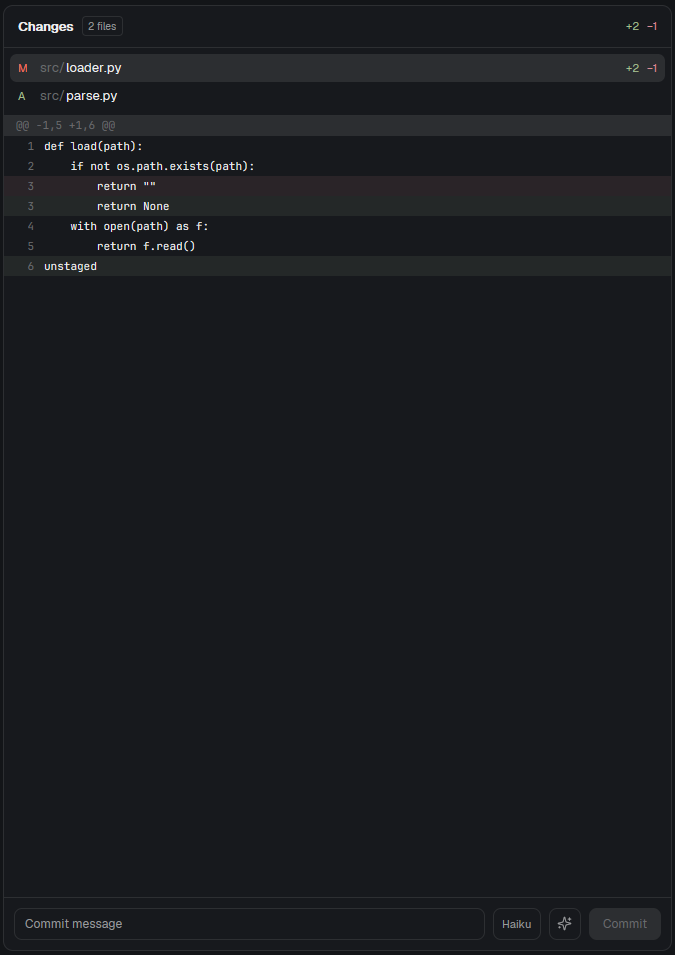
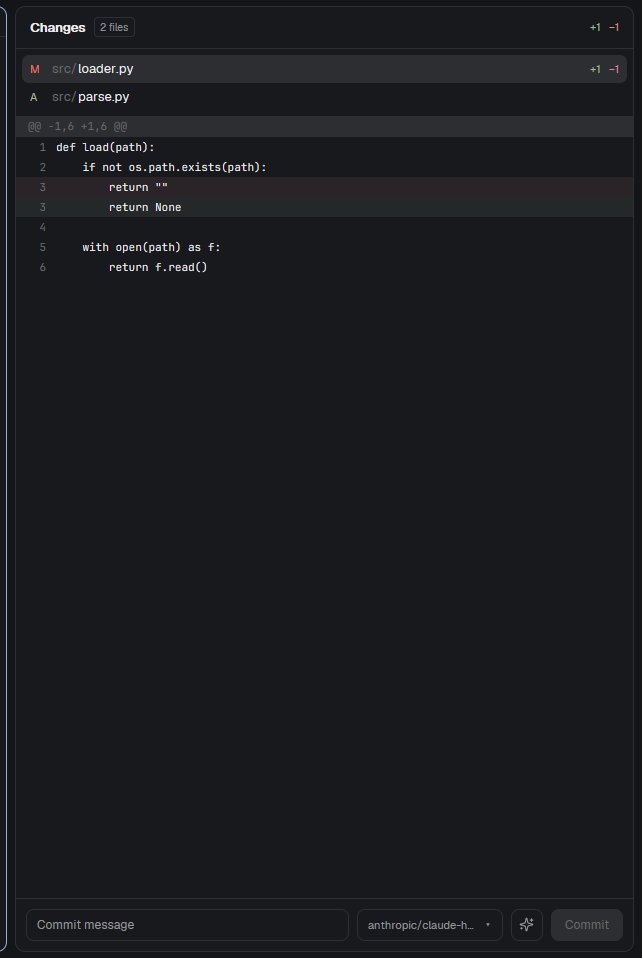
fix: file list clicks, untracked files in the prompt, hung requests
- the model picker had taken over pick(), so clicking a file in the list
  picked a model instead: renamed to pickModel()
- untracked files are in neither git diff, but Commit adds them: they are
  now part of what the model reads
- a request that never answers is given up on after 3 minutes, and a late
  reply is dropped, instead of the button spinning forever
- restored the tab padding and width of the shipped diff viewer
- the model menu is sized to the panel, closes on Escape, loads providers
  in parallel and says when there are none
- notes say whether they are errors (red) or information (grey)
- shared key is ai-commit.selected, not ai.selected
- mod.json carries a title and an overlay so mod.open shows it
- keys.json: the mod:ai-commit section the recipe asks for
- RECIPE.md: document the pi provider, placement, what is written, the
  untracked files and the 3 minute limit
- preview.png: regenerated, the model button no longer says "Haiku"

diff --git a/mods/ai-commit/main.js b/mods/ai-commit/main.js
@@ -1,7 +1,7 @@
 import { View, div, svg } from "gpui-kit";
 import { v_flex, h_flex, InputState, Input, Scrollbar, v_virtual_list } from "gpui-base";
 import * as fs from "fs/promises";
-import { spaces, panes, focused, exec, readTextFile, watchFolder, theme, settings, appHome, home, shared, setShared, nextCommand } from "herdr";
+import { spaces, panes, focused, exec, readTextFile, watchFolder, theme, settings, appHome, shared, setShared, nextCommand } from "herdr";
 
 function location() {
   const space = spaces().find((s) => s.active), f = focused();
@@ -15,6 +15,9 @@ const key = () => JSON.stringify(location());
 const READ = ["--no-optional-locks", "-c", "core.fsmonitor=false", "-c", "diff.autoRefreshIndex=false"];
 const countLines = (text) => text ? text.split("\n").length - Number(text.endsWith("\n")) : 0;
 
+// Text draws a tab as nothing: pad each to the next 4-column stop.
+const untab = (text) => text.replace(/[^\t]*\t/g, (s) => s.slice(0, -1).padEnd((s.length - 1) - (s.length - 1) % 4 + 4));
+
 // Numbers each diff line once, so a frame only draws the rows on screen.
 function diffRows(lines) {
   let old = 0, next = 0;
@@ -22,9 +25,9 @@ function diffRows(lines) {
     const match = /^@@ -(\d+)(?:,\d+)? \+(\d+)/.exec(line);
     if (match) { old = +match[1]; next = +match[2]; return { kind: "@", text: line }; }
     const kind = line[0];
-    if (kind === "-") return { kind, number: old++, text: line.slice(1) || " " };
-    if (kind === "+") return { kind, number: next++, text: line.slice(1) || " " };
-    if (kind === " ") { old++; return { kind, number: next++, text: line.slice(1) || " " }; }
+    if (kind === "-") return { kind, number: old++, text: untab(line.slice(1)) || " " };
+    if (kind === "+") return { kind, number: next++, text: untab(line.slice(1)) || " " };
+    if (kind === " ") { old++; return { kind, number: next++, text: untab(line.slice(1)) || " " }; }
     return { kind: "", text: line };
   });
 }
@@ -45,7 +48,13 @@ export default class Changes extends View {
     this.loadModelLabel(cx);
     // Local: refresh every 10 s. Remote: every 30 s, since each refresh runs Git over SSH.
     this.ticks = 0;
-    cx.timer.every(10000, (cx) => { this.ticks++; if (!this.on || this.ticks % 3 === 0) this.refresh(cx); this.loadModelLabel(cx); });
+    cx.timer.every(10000, (cx) => {
+      this.ticks++;
+      // A request that never answers must not leave the sparkles button spinning forever.
+      if (this.generating && Date.now() - this.genAt > 180000) { this.genId++; this.generating = false; this.note = "AI: no reply after 3 minutes"; this.noteError = true; }
+      if (!this.on || this.ticks % 3 === 0) this.refresh(cx);
+      this.loadModelLabel(cx);
+    });
     // Keyboard: keys.json → "mod:ai-commit": { "ctrl-alt-g": "ai-commit.generate" }
     cx.spawn(async (cx) => { for (;;) { const c = await nextCommand(); if (c === "generate") this.generateMessage(cx); cx.notify(); } });
   }
@@ -139,7 +148,7 @@ export default class Changes extends View {
 
   setLines(lines) {
     this.rows = diffRows(lines);
-    this.diffWidth = Math.max(300, ...lines.map(line => line.length * 7 + 50));
+    this.diffWidth = Math.max(300, ...this.rows.map(row => (row.text.length + 1) * 7 + 50));
   }
 
   pick(path, cx) {
@@ -173,7 +182,7 @@ export default class Changes extends View {
     // The choice from the menu (shared state) wins over settings.json's default.
     let selected = null;
     try {
-      const stored = JSON.parse(shared("ai.selected") ?? "null");
+      const stored = JSON.parse(shared("ai-commit.selected") ?? "null");
       if (stored && providers.some((p) => p.name === stored.provider)) selected = { provider: stored.provider, model: stored.model ?? null };
     } catch {}
     const d = ai.default;
@@ -187,14 +196,16 @@ export default class Changes extends View {
   // for the staged diff (or the diff against HEAD when nothing is staged), and fills the box.
   generateMessage(cx) {
     if (this.generating) return;
-    if (!this.root) { this.note = "AI: no repository loaded yet"; cx.notify(); return; }
-    if (this.busy) { this.note = "AI: a commit is in progress"; cx.notify(); return; }
+    if (!this.root) { this.note = "AI: no repository loaded yet"; this.noteError = true; cx.notify(); return; }
+    if (this.busy) { this.note = "AI: a commit is in progress"; this.noteError = true; cx.notify(); return; }
     const root = this.root, on = this.on;
-    this.generating = true; this.note = "AI: generating commit message…";
+    // One id per request: the timer gives up on a request that never answers, and a late reply is dropped.
+    const id = this.genId = (this.genId ?? 0) + 1;
+    this.generating = true; this.genAt = Date.now(); this.note = "AI: generating commit message…"; this.noteError = false;
     cx.spawn(async (cx) => {
       try {
         const cfg = await this.readAiConfig();
-        if (!cfg) throw new Error('no AI configured: set settings.json → "ai": {"models": [{"label": "…", "provider": "anthropic"|"openai"|"ollama", "model": "…"}]}');
+        if (!cfg) throw new Error('no AI configured: add "ai": {"default": {"provider": "…", "model": "…"}, "providers": [{"name": "…", "provider": "anthropic"|"openai"|"ollama"|"pi"}]} to settings.json');
         const p = cfg.providers.find((x) => x.name === cfg.selected.provider);
         const model = cfg.selected.model;
         if (!p || !model) throw new Error("no model selected: open the model menu next to the sparkles button");
@@ -206,21 +217,22 @@ export default class Changes extends View {
           const shorter = await this.askAi(ai, diff, `Your previous answer was ${subject.length} characters. Reply with a shorter subject, at most 50 characters.`).catch(() => "");
           if (shorter) subject = shorter;
         }
-        // The repository may have changed while the model was answering: drop the result then.
-        if (this.root !== root) return;
-        if (!subject) { this.note = "AI returned an empty message"; return; }
+        // The repository may have changed, or the request given up on, while the model was answering.
+        if (id !== this.genId || this.root !== root) return;
+        if (!subject) { this.note = "AI returned an empty message"; this.noteError = true; return; }
         this.input.set_value(subject); this.message = subject;
         const notes = [];
         if (truncated) notes.push("Diff truncated to 60,000 characters for the AI.");
         if (subject.length > 50) notes.push(`Subject is ${subject.length} characters (50 recommended).`);
-        this.note = notes.length ? notes.join(" ") : null;
-      } catch (e) { if (this.root === root) this.note = `AI commit message failed: ${e}`; }
-      finally { this.generating = false; cx.notify(); }
+        this.note = notes.length ? notes.join(" ") : null; this.noteError = false;
+      } catch (e) { if (id === this.genId && this.root === root) { this.note = `AI commit message failed: ${e}`; this.noteError = true; } }
+      finally { if (id === this.genId) { this.generating = false; cx.notify(); } }
     });
     cx.notify();
   }
 
   // Staged diff; if nothing is staged, the diff against HEAD (what Commit will stage with git add -A).
+  // Neither includes untracked files, which Commit does commit, so those are added separately.
   async readDiff(root, on) {
     const r = await exec("git", [...READ, "diff", "--staged", "--no-color"], { cwd: root, on });
     if (r.code !== 0) throw new Error((r.stderr || r.stdout).trim() || "git diff --staged failed");
@@ -230,9 +242,29 @@ export default class Changes extends View {
       if (w.code !== 0) throw new Error((w.stderr || w.stdout).trim() || "git diff HEAD failed");
       diff = w.stdout.trim();
     }
-    if (!diff) throw new Error("no changes to summarize (nothing staged or modified)");
+    const fresh = await this.untracked(root, on);
+    if (fresh) diff = diff ? `${diff}\n${fresh}` : fresh;
+    if (!diff) throw new Error("no changes to summarize (nothing staged, modified or untracked)");
     const LIMIT = 60000;
     return { diff: diff.slice(0, LIMIT), truncated: diff.length > LIMIT };
+  }
+
+  // The untracked files as text for the model. Bounded, since all of it goes in one prompt.
+  async untracked(root, on) {
+    const status = await exec("git", [...READ, "status", "--porcelain=v1", "-z", "--untracked-files=all"], { cwd: root, on }).catch(() => null);
+    if (!status || status.code !== 0) return "";
+    const paths = status.stdout.split("\0").filter((e) => e.startsWith("?? ")).map((e) => e.slice(3));
+    const out = [];
+    let budget = 20000;
+    for (const path of paths) {
+      if (budget <= 0) { out.push(`new file: ${path} (not shown)`); continue; }
+      const text = await readTextFile(`${root}/${path}`, { on }).catch(() => null);
+      if (text === null || text.includes("\0")) { out.push(`new file: ${path} (binary or unreadable, not shown)`); continue; }
+      const lines = text.replace(/\n$/, "").split("\n"), body = lines.slice(0, 400).join("\n"), shown = body.slice(0, budget);
+      budget -= shown.length;
+      out.push(`new file: ${path} (${lines.length} lines, added by Commit)\n${shown.split("\n").map((l) => `+${l}`).join("\n")}${shown.length < body.length ? "\n+… (rest not shown)" : ""}`);
+    }
+    return out.join("\n");
   }
 
   // The API key for a model: "api_key" in settings.json, or the environment variable named by "api_key_env".
@@ -326,7 +358,7 @@ export default class Changes extends View {
           if (r.code !== 0) throw new Error((r.stderr || r.stdout).trim());
         }
         if (key() === context) { this.message = ""; this.input.set_value(""); }
-      } catch (e) { if (key() === context) this.note = `Commit failed: ${e}`; }
+      } catch (e) { if (key() === context) { this.note = `Commit failed: ${e}`; this.noteError = true; } }
       finally { this.busy = false; this.refresh(cx); cx.notify(); }
     });
     cx.notify();
@@ -349,21 +381,23 @@ export default class Changes extends View {
 
   toggleMenu(cx) {
     this.menuOpen = !this.menuOpen;
-    if (this.menuOpen) cx.spawn(async (cx) => { await this.loadCatalog(); cx.notify(); });
+    if (this.menuOpen) cx.spawn(async (cx) => { await this.loadCatalog(cx); cx.notify(); });
     cx.notify();
   }
 
-  // Lists each provider's models once per session; errors are shown in the menu.
-  async loadCatalog() {
+  // Lists each provider's models once per session; errors are shown in the menu, provider by provider.
+  async loadCatalog(cx) {
     const cfg = await this.readAiConfig();
     if (!cfg) return;
     this.providers = cfg.providers; this.selected = cfg.selected;
     this.catalog = this.catalog ?? {};
-    for (const p of cfg.providers) {
-      if (this.catalog[p.name]) continue;
+    // In parallel: one unreachable server must not hold up the others' lists.
+    await Promise.all(cfg.providers.map(async (p) => {
+      if (this.catalog[p.name]) return;
       try { this.catalog[p.name] = { models: await this.fetchModels(p) }; }
       catch (e) { this.catalog[p.name] = { error: String(e).slice(0, 160) }; }
-    }
+      cx.notify();
+    }));
   }
 
   async fetchModels(p) {
@@ -403,8 +437,8 @@ export default class Changes extends View {
     throw new Error(`unknown provider "${p.provider}"`);
   }
 
-  pick(provider, model, cx) {
-    setShared("ai.selected", JSON.stringify({ provider, model }));
+  pickModel(provider, model, cx) {
+    setShared("ai-commit.selected", JSON.stringify({ provider, model }));
     this.selected = { provider, model };
     this.modelName = model;
     this.menuOpen = false;
@@ -412,8 +446,8 @@ export default class Changes extends View {
   }
 
   modelMenu(t) {
-    const rows = [];
-    for (const p of this.providers ?? []) {
+    const rows = [], providers = this.providers ?? [];
+    for (const p of providers) {
       rows.push(div().px(10).pt(8).pb(2).text_size(10).text_color(t.dim).font_semibold().child(p.name.toUpperCase()));
       const entry = this.catalog?.[p.name];
       if (!entry) rows.push(div().px(10).py(4).text_size(11).text_color(t.dim).child("loading…"));
@@ -422,12 +456,15 @@ export default class Changes extends View {
       else for (const m of entry.models) {
         const on = this.selected?.provider === p.name && this.selected?.model === m;
         rows.push(h_flex().id(`model-${p.name}-${m}`).h(26).px(10).gap(6).items_center().rounded(6).cursor_pointer().hover((s) => s.bg(t.hover)).when(on, (e) => e.bg(t.selected))
-          .on_click((_e, cx) => this.pick(p.name, m, cx))
+          .on_click((_e, cx) => this.pickModel(p.name, m, cx))
           .child(div().w(12).text_color(t.accent).child(on ? "✓" : ""))
           .child(div().flex_1().min_w(0).truncate().child(m)));
       }
     }
-    return v_flex().id("model-menu").absolute().right(10).bottom(54).w(300).max_h(360).overflow_y_scroll().py(4).rounded(8).border_1().border_color(t.border).bg(t.popover).children(rows);
+    if (!providers.length) rows.push(div().px(10).py(6).text_size(11).text_color(t.dim).child('No providers: add an "ai" section to settings.json'));
+    // The menu lives inside the panel (clipped by its overflow), so size it to the panel.
+    const h = Math.max(160, Math.min(360, (this.panelH ?? 620) - 70)), w = Math.max(140, Math.min(300, (this.panelW ?? 320) - 20));
+    return v_flex().id("model-menu").absolute().right(10).bottom(54).w(w).max_h(h).overflow_y_scroll().py(4).rounded(8).border_1().border_color(t.border).bg(t.popover).children(rows);
   }
 
   diffRow({ kind, number, text }, t) {
@@ -441,8 +478,9 @@ export default class Changes extends View {
     if (key() !== this.context) this.refresh(cx);
     const t = theme(), add = this.files.reduce((n, f) => n + f.add, 0), del = this.files.reduce((n, f) => n + f.del, 0);
     const enabled = Boolean(this.message.trim() && this.root && !this.busy && !this.loading);
-    return v_flex().id("changes").size_full().relative().min_h(0).rounded(10).overflow_hidden().bg(t.background).border_1().border_color(t.border).text_color(t.foreground).text_size(13).track_focus(this.handle)
+    return v_flex().id("changes").size_full().on_size_change((size, cx) => { if (size.width !== this.panelW || size.height !== this.panelH) { this.panelW = size.width; this.panelH = size.height; if (this.menuOpen) cx.notify(); } }).relative().min_h(0).rounded(10).overflow_hidden().bg(t.background).border_1().border_color(t.border).text_color(t.foreground).text_size(13).track_focus(this.handle)
       .on_key_down((e, cx) => {
+        if (e.key === "escape" && this.menuOpen) { this.menuOpen = false; cx.stop_propagation(); cx.notify(); return; }
         if (e.key === "escape" && this.typing) { this.typing = false; this.handle.focus(); cx.stop_propagation(); cx.notify(); }
       })
       .child(h_flex().h(42).flex_none().px(14).gap(8).items_center().border_b(1).border_color(t.border)
@@ -466,7 +504,7 @@ export default class Changes extends View {
             (range) => this.rows.slice(range.start, range.end).map((row) => this.diffRow(row, t))).size_full())))
         .child(Scrollbar.vertical("changes-diff").viewport_from_layout().absolute().inset_0())
         .when(!this.open && this.files.length > 0, (e) => e.child(div().absolute().top(6).px(12).text_color(t.dim).child("Select a file to view its changes"))))
-      .when(Boolean(this.note), (e) => e.child(div().px(10).pb(8).text_size(11).text_color(t.ansi1).child(this.note)))
+      .when(Boolean(this.note), (e) => e.child(div().px(10).pb(8).text_size(11).text_color(this.noteError ? t.ansi1 : t.muted).child(this.note)))
       .when(this.menuOpen, (e) => e.child(this.modelMenu(t)))
       .child(h_flex().flex_none().p(10).gap(8).border_t(1).border_color(t.border)
         .child(div().id("commit-message").flex_1().min_w(0).h(32).px(10).flex().items_center().rounded(8).border_1().border_color(this.typing ? t.accent : t.border).cursor_text().on_mouse_down("left", (_e, cx) => cx.stop_propagation()).child(Input.new(this.input).h_full().text_size(12).text_color(t.foreground)))

diff --git a/RECIPE.md b/RECIPE.md
@@ -2,33 +2,46 @@
 
 ![AI commit message](preview.png)
 
-A Changes panel for Herdr with an AI button for the commit message. It shows the staged diff (or, if nothing is staged, the diff against HEAD, which is what Commit stages anyway) with a file list and a diff viewer. Next to the commit box it has a model button and a sparkles button. The model button shows the active model and cycles through the models in `settings.json`. The sparkles button reads the diff and fills the commit box with one Conventional Commits subject line.
+A Changes panel for Herdr with an AI button for the commit message. It shows the uncommitted changes (staged, unstaged and untracked) with a file list and a diff viewer, and next to the commit box it has a model button and a sparkles button. The model button shows the active model and opens a menu of the models in `settings.json`. The sparkles button reads the diff and fills the commit box with one Conventional Commits subject line.
 
-**What you see:** a card with a header ("Changes", file count, +/− totals), a file list (status letter, folder in grey, file name, added and removed counts), a diff viewer with line numbers and green/red rows, a note line for messages and errors, and a footer with the commit box, the model button, the sparkles button and the Commit button. The model button is 32 px tall and shows the model label (truncated to about 96 px). The sparkles button is 32×32 px.
+It is Herdr's shipped Changes panel (`mods/changes`) with the model button, the sparkles button and the AI code added, so it can replace that panel in a layout or sit beside it. `mod.json` says `{"place": "none"}`, so nothing docks by itself. Put it where the Changes panel goes in a layout:
+
+```json
+{ "id": "changes", "type": "block", "content": { "mod": "ai-commit" } }
+```
+
+`herdr-app do mod.open ai-commit` opens the same panel as a floating one, to try it before touching a layout (again closes it).
+
+**What you see:** a card with a header ("Changes", file count, +/− totals), a file list (status letter, folder in grey, file name, added and removed counts), a diff viewer with line numbers and green/red rows, a note line for messages and errors, and a footer with the commit box, the model button, the sparkles button and the Commit button. The model button is 32 px tall and shows the model label (truncated to about 110 px). The sparkles button is 32×32 px. The model menu opens over the panel, above the footer, sized to the panel (300 px wide, at most 360 px tall, smaller in a small panel).
 
 **How it behaves:**
-- The file list and diff refresh when the folder changes and every 10 seconds (every 30 seconds on remote spaces, since each refresh runs Git over SSH).
+- The file list and diff refresh when the folder changes and every 10 seconds (every 30 seconds on remote spaces, since each refresh runs Git over SSH). On a local folder a watch refreshes them sooner.
 - Clicking a file shows its diff; clicking it again hides it. The first file is shown by default.
-- Model button (the name with ▾): opens a menu listing the models of every provider in `settings.json`, grouped by provider, with ✓ on the selected one. The lists come from each provider's API (see below), and are loaded once per session. Clicking a model selects it for the commit button; the choice is kept in shared state (`ai.selected`) and shown again when the panel opens.
-- Sparkles button (or the keyboard command below): the button spins and the note line says "AI: generating commit message…". On success the subject appears in the commit box. If the subject is over 50 characters, the mod asks the model once more for a shorter one; if the result is still long, the note says how many characters it has. If the diff is over 60,000 characters, the note says it was truncated.
-- Failures show a reason in the note line: no configuration, missing key, HTTP status, empty reply, no repository.
+- Model button (the name with ▾, or Escape to close): opens a menu listing the models of every provider in `settings.json`, grouped by provider, with ✓ on the selected one. The lists come from each provider's API (see below) and are fetched when the menu is first opened. Clicking a model selects it for the sparkles button; the choice is kept in shared state (`ai-commit.selected`) and shown again when the panel opens.
+- Sparkles button (or the keyboard command below): the button spins and the note line says "AI: generating commit message…". On success the subject appears in the commit box. If the subject is over 50 characters, the mod asks the model once more for a shorter one; if the result is still long, the note says how many characters it has. If the diff is over 60,000 characters, the note says it was truncated. A request that has not answered after 3 minutes is given up on (the note says so and the button works again); a reply that arrives later is dropped.
+- Failures show a reason in the note line, in red: no configuration, missing key, HTTP status, empty reply, no repository, no changes. Informational notes (truncation, subject length) are shown in grey and disappear on the next file click or commit.
 - If you switch repositories while a message is generating, the result is dropped.
 - A commit already running blocks generation with "AI: a commit is in progress".
 - Commit runs `git add -A` and then `git commit -m <message>`.
 
-**Keyboard:** add this to `keys.json` to generate with `ctrl-alt-g` (any free key works):
+**Keyboard:** next to the mod, `keys.json` holds the key it expects:
 
 ```json
 "mod:ai-commit": { "ctrl-alt-g": "ai-commit.generate" }
 ```
 
+Merge that section into `~/.config/herdr-app/keys.json` (ask before replacing a key that is already used). The section name is the mod's folder name, so it has to be renamed if the folder is. Herdr delivers the command to the panel as `generate`.
+
 **Built from:**
-- One mod, `mods/ai-commit/`: `main.js` (the panel), `mod.json` (`{"place": "none"}`: the layout decides where it goes), `sparkles.svg` (the icon, tinted with the text color), and `preview.png`.
-- Built from the diff viewer and file list of Herdr's shipped `changes` panel, with the commit box and AI button added.
-- `herdr` functions: `exec` (Git with `on:` for remote spaces; `printenv`/`powershell` only to read an environment variable named in `api_key_env`), `readTextFile` (reads `settings.json` in the app home), `appHome`, `watchFolder`, `theme`, `settings`, `shared` / `setShared`, `nextCommand`, `focused`, `spaces`, `panes`, `cx.spawn`, `cx.timer`.
+- One mod, `mods/ai-commit/`: `main.js` (the panel), `mod.json` (`"place": "none"` and an overlay, so nothing docks by itself and `mod.open` shows it floating) and `sparkles.svg` (the icon, tinted with the text color). Next to that folder there are `keys.json`, `RECIPE.md` and `preview.png`, and no `layouts/` folder.
+- Built from the diff viewer and file list of Herdr's shipped `changes` panel, with the commit box, the model button and the AI button added.
+- `herdr` functions: `exec` (Git with `on:` for remote spaces; `printenv`/`powershell` only to read an environment variable named in `api_key_env`; `pi` for the `pi` provider), `readTextFile` (reads `settings.json` in the app home, and a changed file's text for the preview and for the AI), `appHome`, `watchFolder`, `theme`, `settings`, `shared` / `setShared`, `nextCommand`, `focused`, `spaces`, `panes`, `cx.spawn`, `cx.timer`, `cx.focus_handle`.
 - Commands: none. The mod never calls `run(...)`.
-- Network: `fetch` to the endpoint of the chosen model: `https://api.anthropic.com/v1/messages` for `anthropic`; `<base_url>/chat/completions` for `openai` (default `https://api.openai.com/v1`); `<base_url>/api/chat` for `ollama` (default `http://127.0.0.1:11434`). The diff (up to 60,000 characters) is sent to that endpoint.
-- Files read outside the mod folder: `<app home>/settings.json` (the `ai` section; read on every click and every timer tick). The mod writes no files.
+- Programs it runs: `git` (status, diff, add, commit; `git --no-optional-locks` with fsmonitor and index refresh off, so a refresh does not write under `.git` and wake the folder watch); `printenv` then `powershell` to read a key from the environment (`powershell` only where `printenv` is not there, such as Windows); `pi` for the `pi` provider (`pi --list-models` for the menu, `pi -p --no-session --no-tools --no-context-files --model … @<file>` to ask for the subject).
+- Network: `fetch` to the endpoint of the chosen model: `https://api.anthropic.com/v1/messages` for `anthropic`; `<base_url>/chat/completions` for `openai` (default `https://api.openai.com/v1`); `<base_url>/api/chat` for `ollama` (default `http://127.0.0.1:11434`); the model list from `/v1/models`, `<base_url>/models` or `/api/tags`. The diff (up to 60,000 characters) is sent to that endpoint. The `pi` provider reaches the network through `pi` itself.
+- What the AI is sent: `git diff --staged` if anything is staged, else `git diff HEAD`, plus the untracked files as text (git diff leaves them out, but Commit adds them): the first 400 lines of each, 20,000 characters in all. Files it cannot read are listed by name only.
+- Files read outside the mod folder: `<app home>/settings.json` (the `ai` section; read on every click and every timer tick) and files in the repository being previewed or summarized.
+- Files written: only for the `pi` provider, `<app home>/data/ai-commit/request.txt` (the prompt and diff, deleted right after the run). Nothing else, and nothing in the repository.
 
 **Configuration** (`~/.config/herdr-app/settings.json`):
 
@@ -36,6 +49,7 @@ A Changes panel for Herdr with an AI button for the commit message. It shows the
 "ai": {
   "default": { "provider": "Anthropic", "model": "claude-haiku-5-5" },
   "providers": [
+    { "name": "Pi", "provider": "pi" },
     { "name": "Anthropic", "provider": "anthropic", "api_key_env": "ANTHROPIC_API_KEY" },
     { "name": "Local server", "provider": "openai", "base_url": "http://localhost:8000/v1" },
     { "name": "Ollama", "provider": "ollama" },
@@ -44,26 +58,32 @@ A Changes panel for Herdr with an AI button for the commit message. It shows the
 }
 ```
 
-- `provider` is the API: `anthropic`, `openai` (any OpenAI-compatible server: OpenAI, SGLang, vLLM, LM Studio…) or `ollama`.
-- The menu lists every model that the provider's API reports: Anthropic's `/v1/models`, `<base_url>/models` for `openai`, and Ollama's local model list (embedding models are left out).
+- `provider` is the API: `anthropic`, `openai` (any OpenAI-compatible server: OpenAI, SGLang, vLLM, LM Studio…), `ollama`, or `pi`.
+- The menu lists every model that the provider's API reports: Anthropic's `/v1/models`, `<base_url>/models` for `openai`, and Ollama's local model list (embedding models are left out). `pi` lists `pi --list-models` as `provider/model`, so a model is written `anthropic/claude-haiku-5-5`.
 - Ollama lists the models installed on that server (`/api/tags`). For the Ollama cloud catalog, add a second provider with `"base_url": "https://ollama.com"` and an `api_key_env` (chat with the cloud needs a key from ollama.com).
+- `pi` needs nothing but `pi` on `PATH`: it runs the same models and the same logins `pi` already has, so no key goes in `settings.json`. It is the one provider that uses another program's login.
 - To fix the model of a provider instead of listing them, add `"model": "…"` to it; it then shows as the only entry.
 - Keys: `api_key` (in the file) or `api_key_env` (an environment variable name; the file then holds no secret). `ollama` needs none; `openai`-compatible servers take an optional key.
-- Anthropic needs a console API key. This mod does not use any other program's login or token.
+- Anthropic needs a console API key. Apart from the `pi` provider, the mod uses no other program's login or token.
 - Older files with `"models": [{label, provider, model}]` still work.
 
 **Watch out:**
 - Keys in `settings.json` are plain text. Prefer `api_key_env`, and don't commit that file.
+- The `pi` provider is the one that runs another program: `pi` must be installed and logged in, and the diff is written to `data/ai-commit/request.txt` (in the app home) for the length of the run, then deleted. A crash or a kill during the run can leave that file behind.
 - The model may still return a subject longer than 50 characters after the retry. The note says so; edit it before committing if needed.
 - The subject is one line. The mod does not write a commit body; write the body yourself if you need one.
-- Sending the diff to a third-party model means the code leaves your machine. Use `ollama` or a local `openai`-compatible server if that is not acceptable.
+- Sending the diff to a third-party model means the code leaves your machine. Use `ollama`, a local `openai`-compatible server or `pi` with a local model if that is not acceptable. This includes untracked files, which are sent as text.
+- A hung endpoint is only abandoned after 3 minutes; there is no cancel button.
 - Reasoning models (for example Qwen through SGLang) can put their reasoning in a separate field. The mod uses only the text reply.
-- The keyboard command depends on Herdr delivering `nextCommand()` names without the mod prefix; check it once in your setup.
+- The panel is a copy of the Changes panel, so a layout that already has `changes` shows two panels unless one is removed or the block points at this mod instead.
+- The model menu is drawn inside the panel, so it never grows beyond it: in a short panel it is short, and it scrolls with the wheel. Escape closes it.
 
 **Done when:**
 - `herdr-app check mods/ai-commit` passes.
 - The model button shows the default model from `settings.json`; its menu lists models from each configured provider and the chosen one gets ✓.
+- Clicking a file in the list shows that file's diff (the list still works with the model menu present).
 - With a staged change, the sparkles button fills the commit box with a `type(scope): subject` line.
+- With only untracked files, it still fills the box (they are part of the diff it reads).
 - With nothing changed, the note line says "no changes to summarize".
 - With an `anthropic` model and no key, the note line says "no Anthropic API key".
 - With a subject over 50 characters, the mod asks again and the note shows the length if it is still over.
